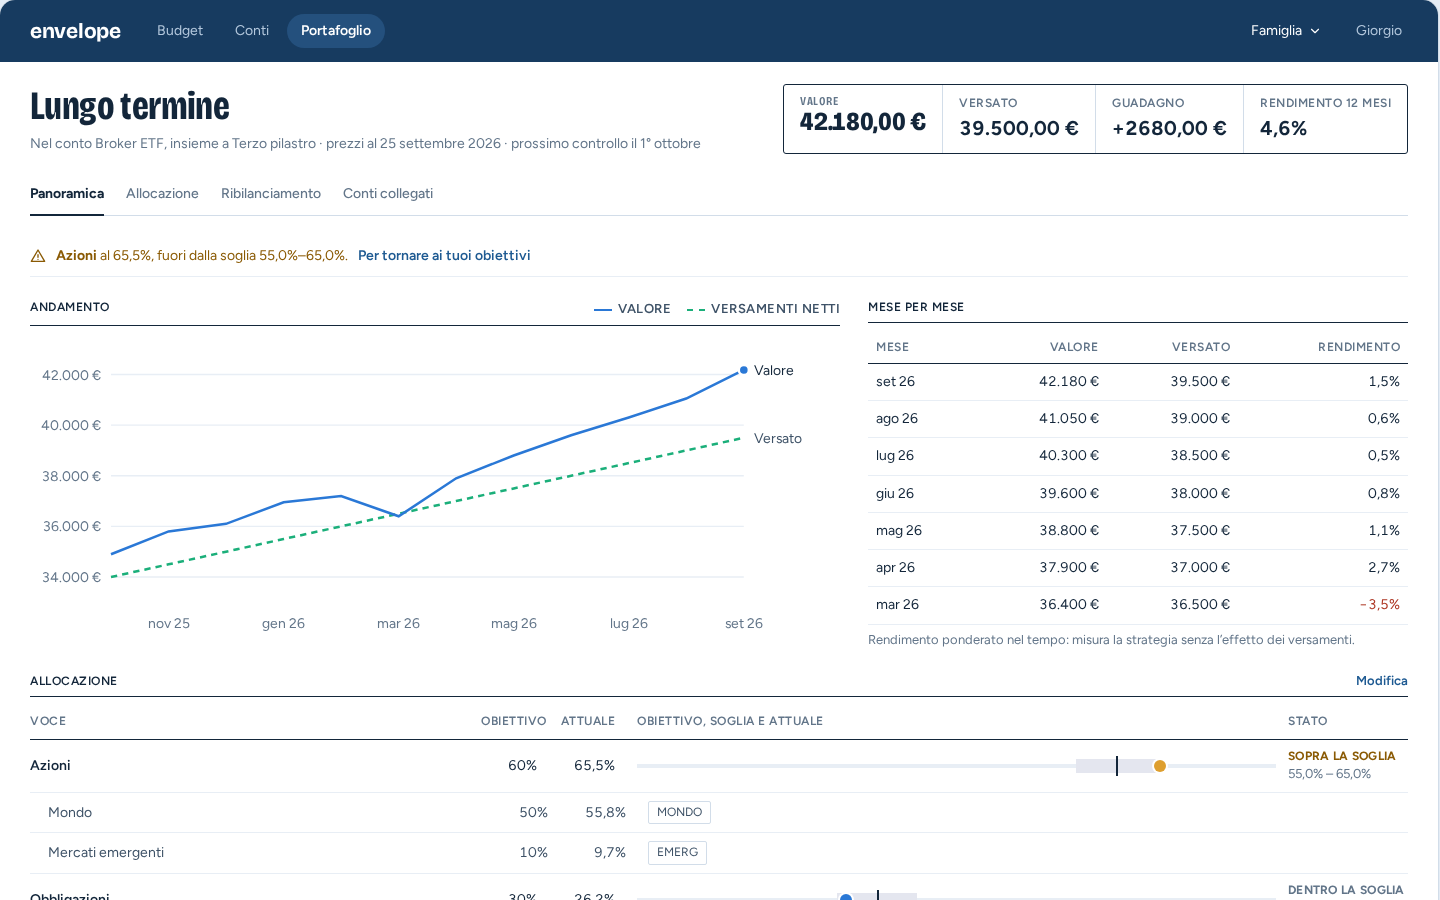
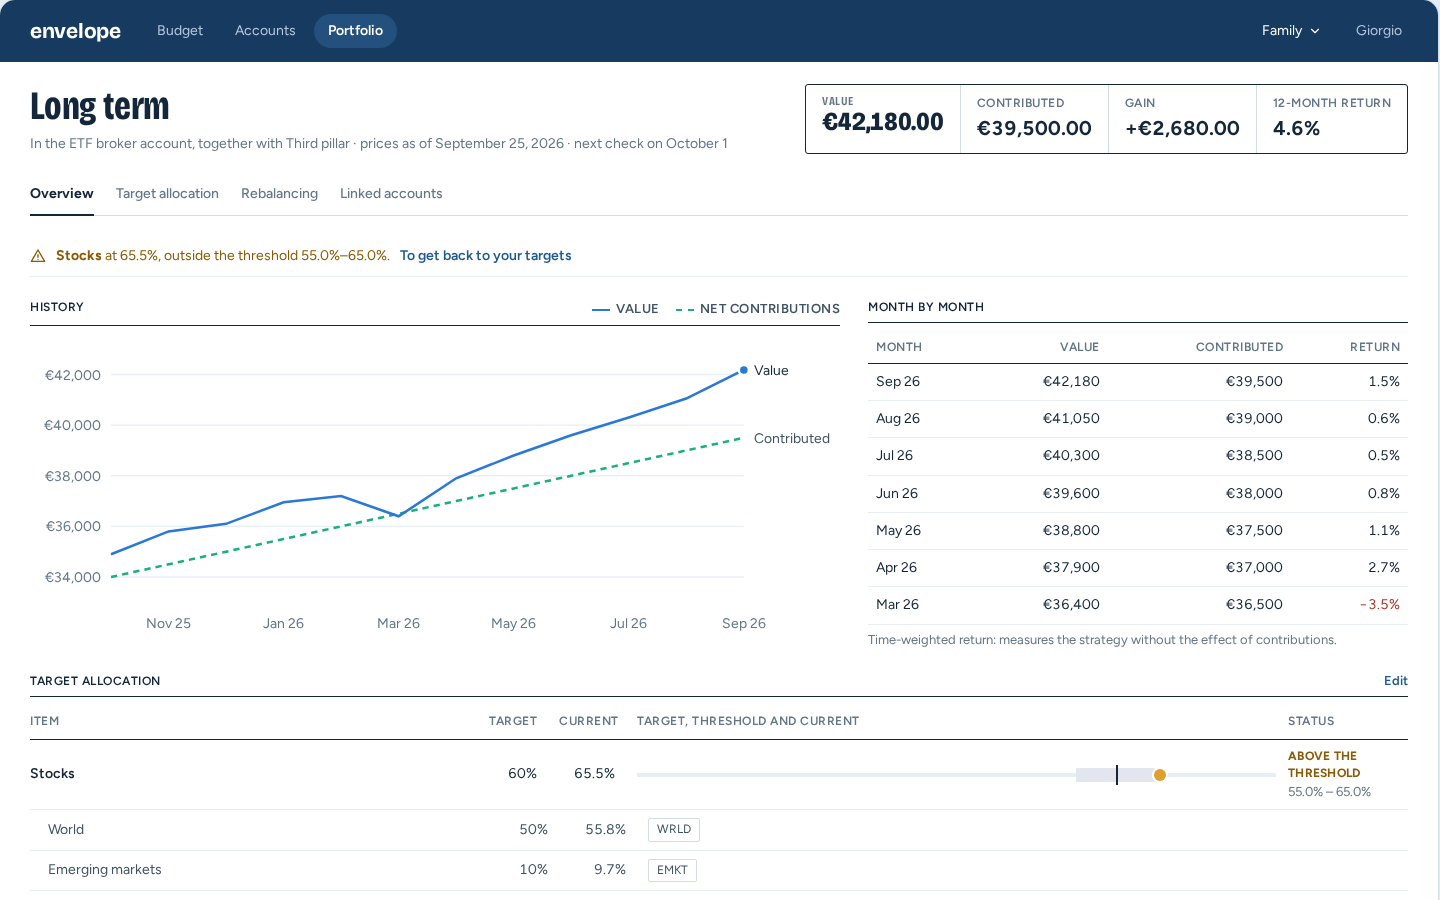
docs: regenerate the mockup screenshots in English
Refs #622

diff --git a/docs/ux/mockups/portfolio.html b/docs/ux/mockups/portfolio.html
@@ -472,10 +472,10 @@ h1,h2,h3,h4,.big{font-family:var(--display);font-stretch:92%;letter-spacing:-.3p
 
   // Instruments (fictional names), prices in cents.
   var INST = [
-    { id: 'mondo', name: 'World equity ETF', code: 'MONDO', qty: 239, price: 9840, avg: 8610, item: 'world' },
-    { id: 'emerg', name: 'Emerging markets equity ETF', code: 'EMERG', qty: 131, price: 3125, avg: 2980, item: 'em' },
-    { id: 'obbl', name: 'Euro government bond ETF', code: 'OBBL', qty: 98, price: 11280, avg: 11450, item: 'bonds' },
-    { id: 'oro', name: 'Physical gold ETC', code: 'ORO', qty: 83, price: 4210, avg: 3620, item: 'gold' }
+    { id: 'mondo', name: 'World equity ETF', code: 'WRLD', qty: 239, price: 9840, avg: 8610, item: 'world' },
+    { id: 'emerg', name: 'Emerging markets equity ETF', code: 'EMKT', qty: 131, price: 3125, avg: 2980, item: 'em' },
+    { id: 'obbl', name: 'Euro government bond ETF', code: 'BOND', qty: 98, price: 11280, avg: 11450, item: 'bonds' },
+    { id: 'oro', name: 'Physical gold ETC', code: 'GOLD', qty: 83, price: 4210, avg: 3620, item: 'gold' }
   ];
   var CASH = 1995;
   // The ETF broker account holds several portfolios: every unit always belongs to exactly one (#219).
